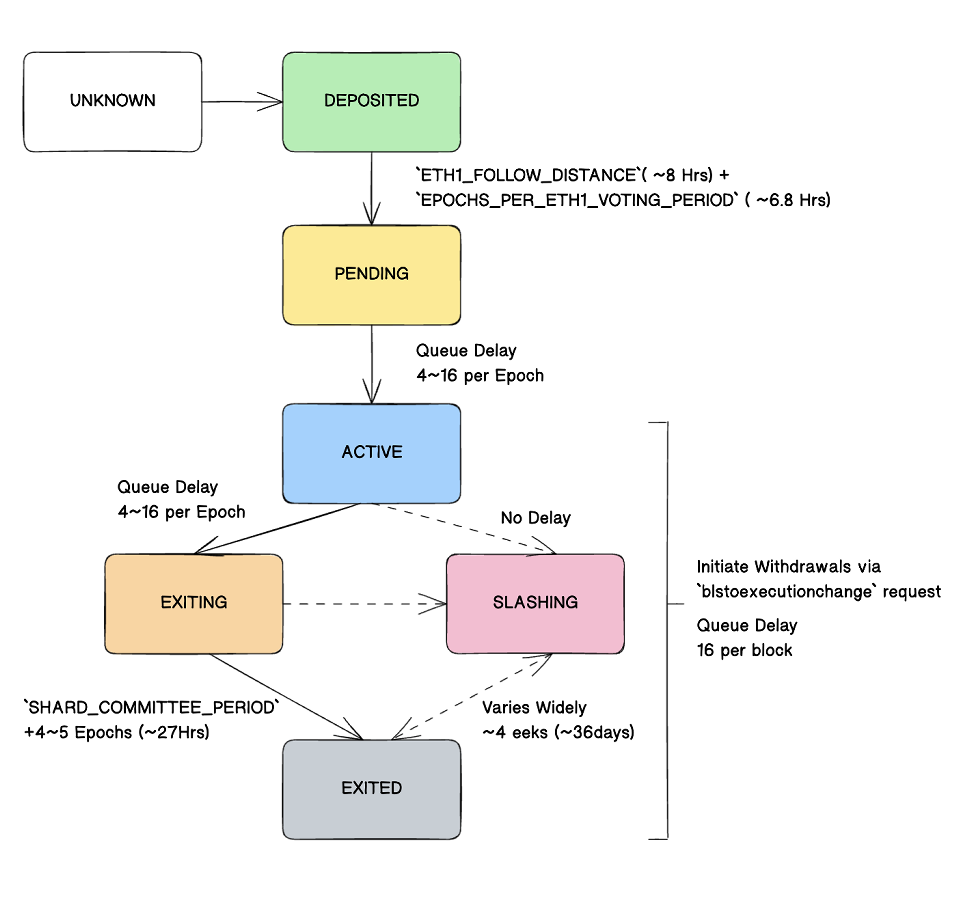
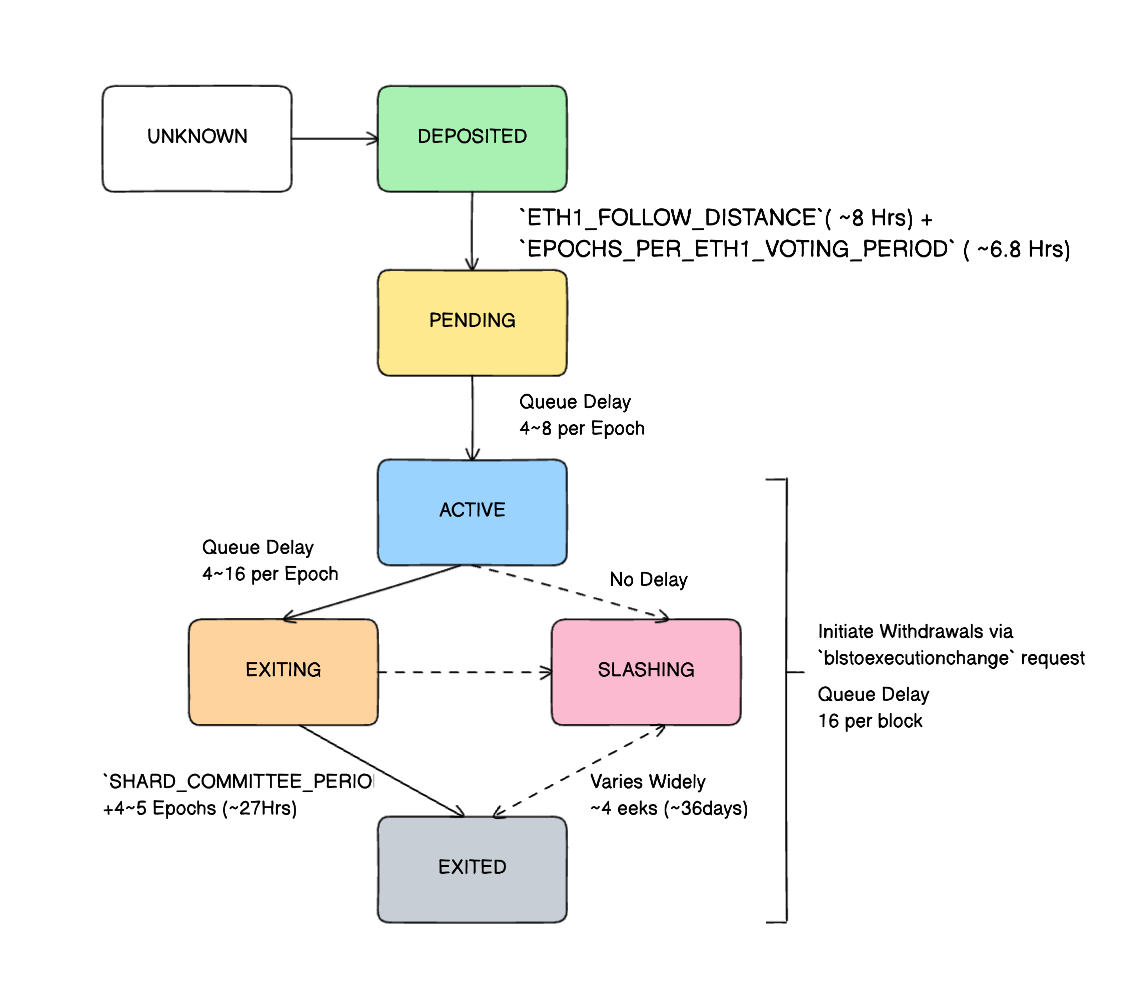
updating validator lifecycle based on deneb

diff --git a/website/docs/how-prysm-works/validator-lifecycle.md b/website/docs/how-prysm-works/validator-lifecycle.md
@@ -12,6 +12,13 @@ This section discusses the lifecycle of a [validator](validator-clients.md) as d
 
 ![Validator Lifecycle Diagram](/img/validator-lifecycle.png)
 
+:::info
+
+After the Deneb hardfork
+- [EIP-7514](https://eips.ethereum.org/EIPS/eip-7514): Add Max Epoch Churn Limit: reduces activations from 4 ~ 16 per epoch to 4 ~ 8 per epoch
+
+:::
+
 ## UNKNOWN State
 Prysm's [validator](validator-clients.md) client will report that the state of a particular validator is UNKNOWN when it loads validator keys that have not yet submitted a valid deposit to the [Ethereum proof-of-work chain](/docs/terminology#eth1) [validator deposit contract](./validator-deposit-contract).
 
@@ -20,7 +27,7 @@ Once a valid transaction has been submitted to the [validator deposit contract](
 
 ## PENDING State
 
-The current specification for [processing deposits](https://github.com/ethereum/consensus-specs/blob/dev/specs/phase0/validator.md#process-deposit) requires a `ETH1_FOLLOW_DISTANCE`(minimum of 2048 ETH1 blocks, ~8 hours, to ensure stability of the chain) plus `EPOCHS_PER_ETH1_VOTING_PERIOD` (64 epochs, ~6.8 hours, to organize a sizable committee for voting) before deposits can be processed into the Ethereum beacon chain. The validator is then assigned an index number and placed into a queue for activation. The beacon chain can process the deposits of 4 ~ 16 new validators per finalized epoch, the difference in the number is determined by the number of total active validators on the chain. Once a validator has reached the front of the queue, it is assigned an activation epoch after an additional 4~5 epochs (~31 minutes).
+The current specification for [processing deposits](https://github.com/ethereum/consensus-specs/blob/dev/specs/phase0/validator.md#process-deposit) requires a `ETH1_FOLLOW_DISTANCE`(minimum of 2048 ETH1 blocks, ~8 hours, to ensure stability of the chain) plus `EPOCHS_PER_ETH1_VOTING_PERIOD` (64 epochs, ~6.8 hours, to organize a sizable committee for voting) before deposits can be processed into the Ethereum beacon chain. The validator is then assigned an index number and placed into a queue for activation. The beacon chain can process the deposits of 4 ~ 8 new validators per finalized epoch, the difference in the number is determined by the number of total active validators on the chain. Once a validator has reached the front of the queue, it is assigned an activation epoch after an additional 4~5 epochs (~31 minutes).
 
 ## ACTIVE State
 
